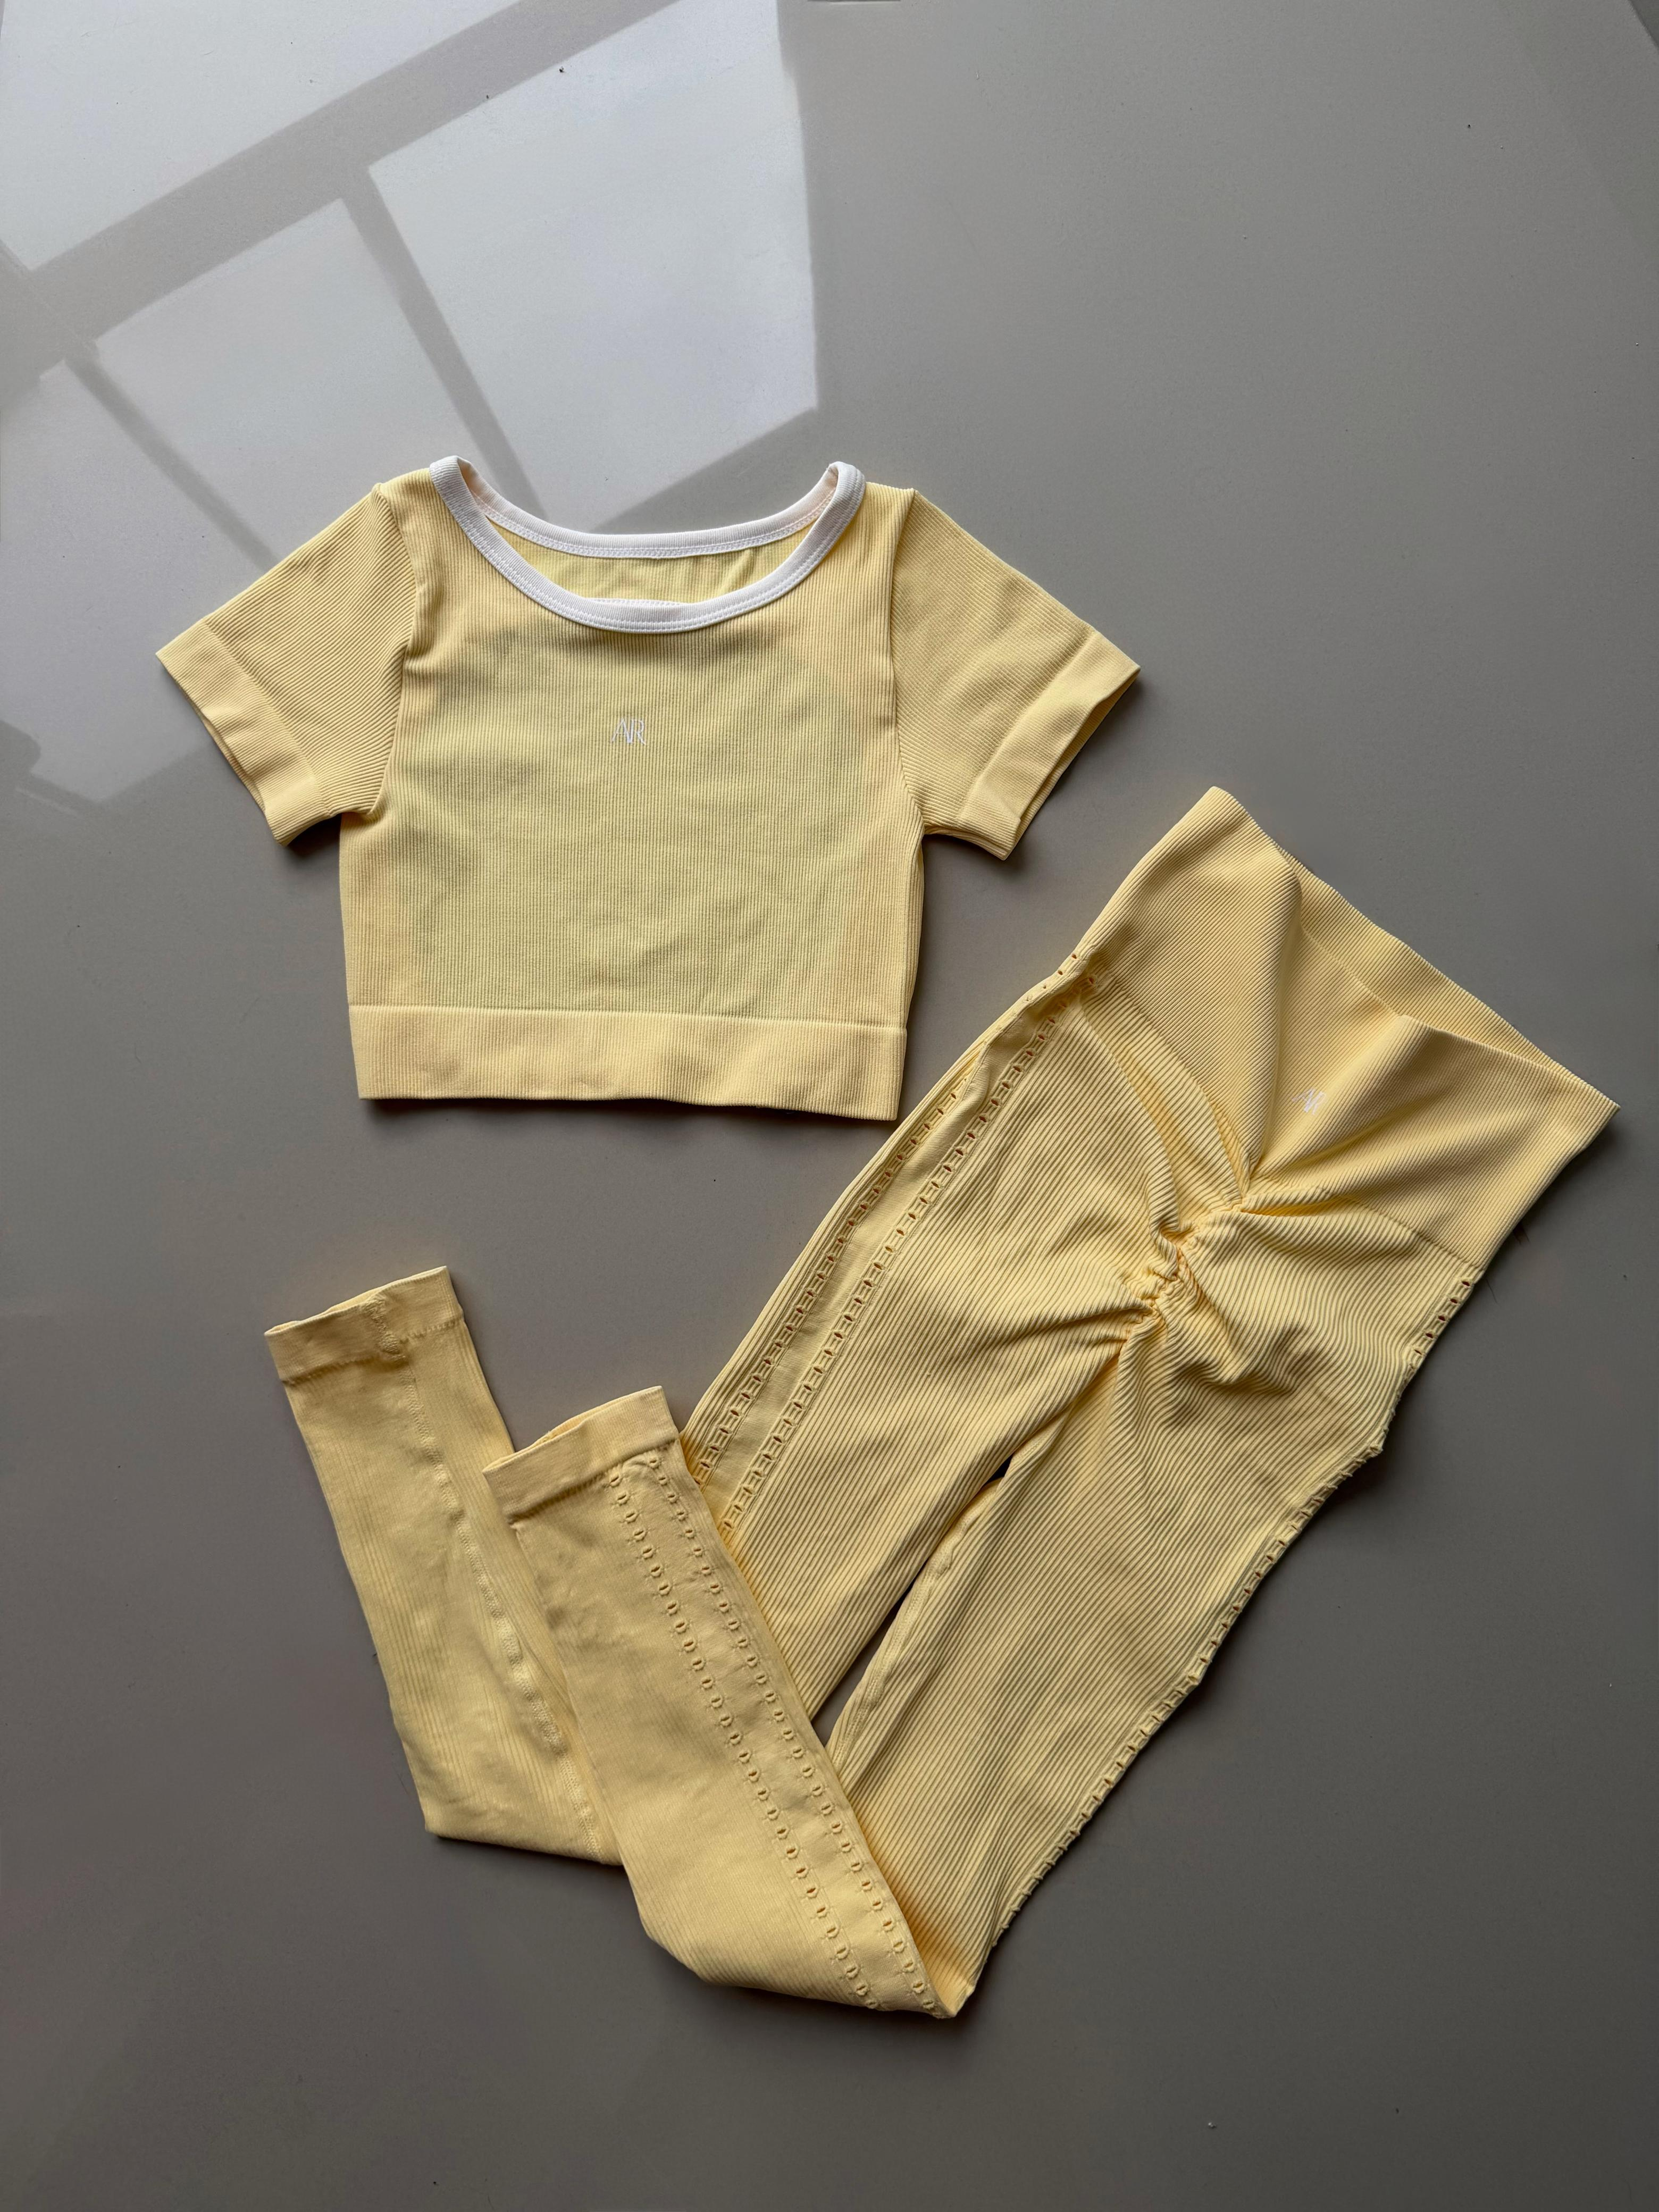
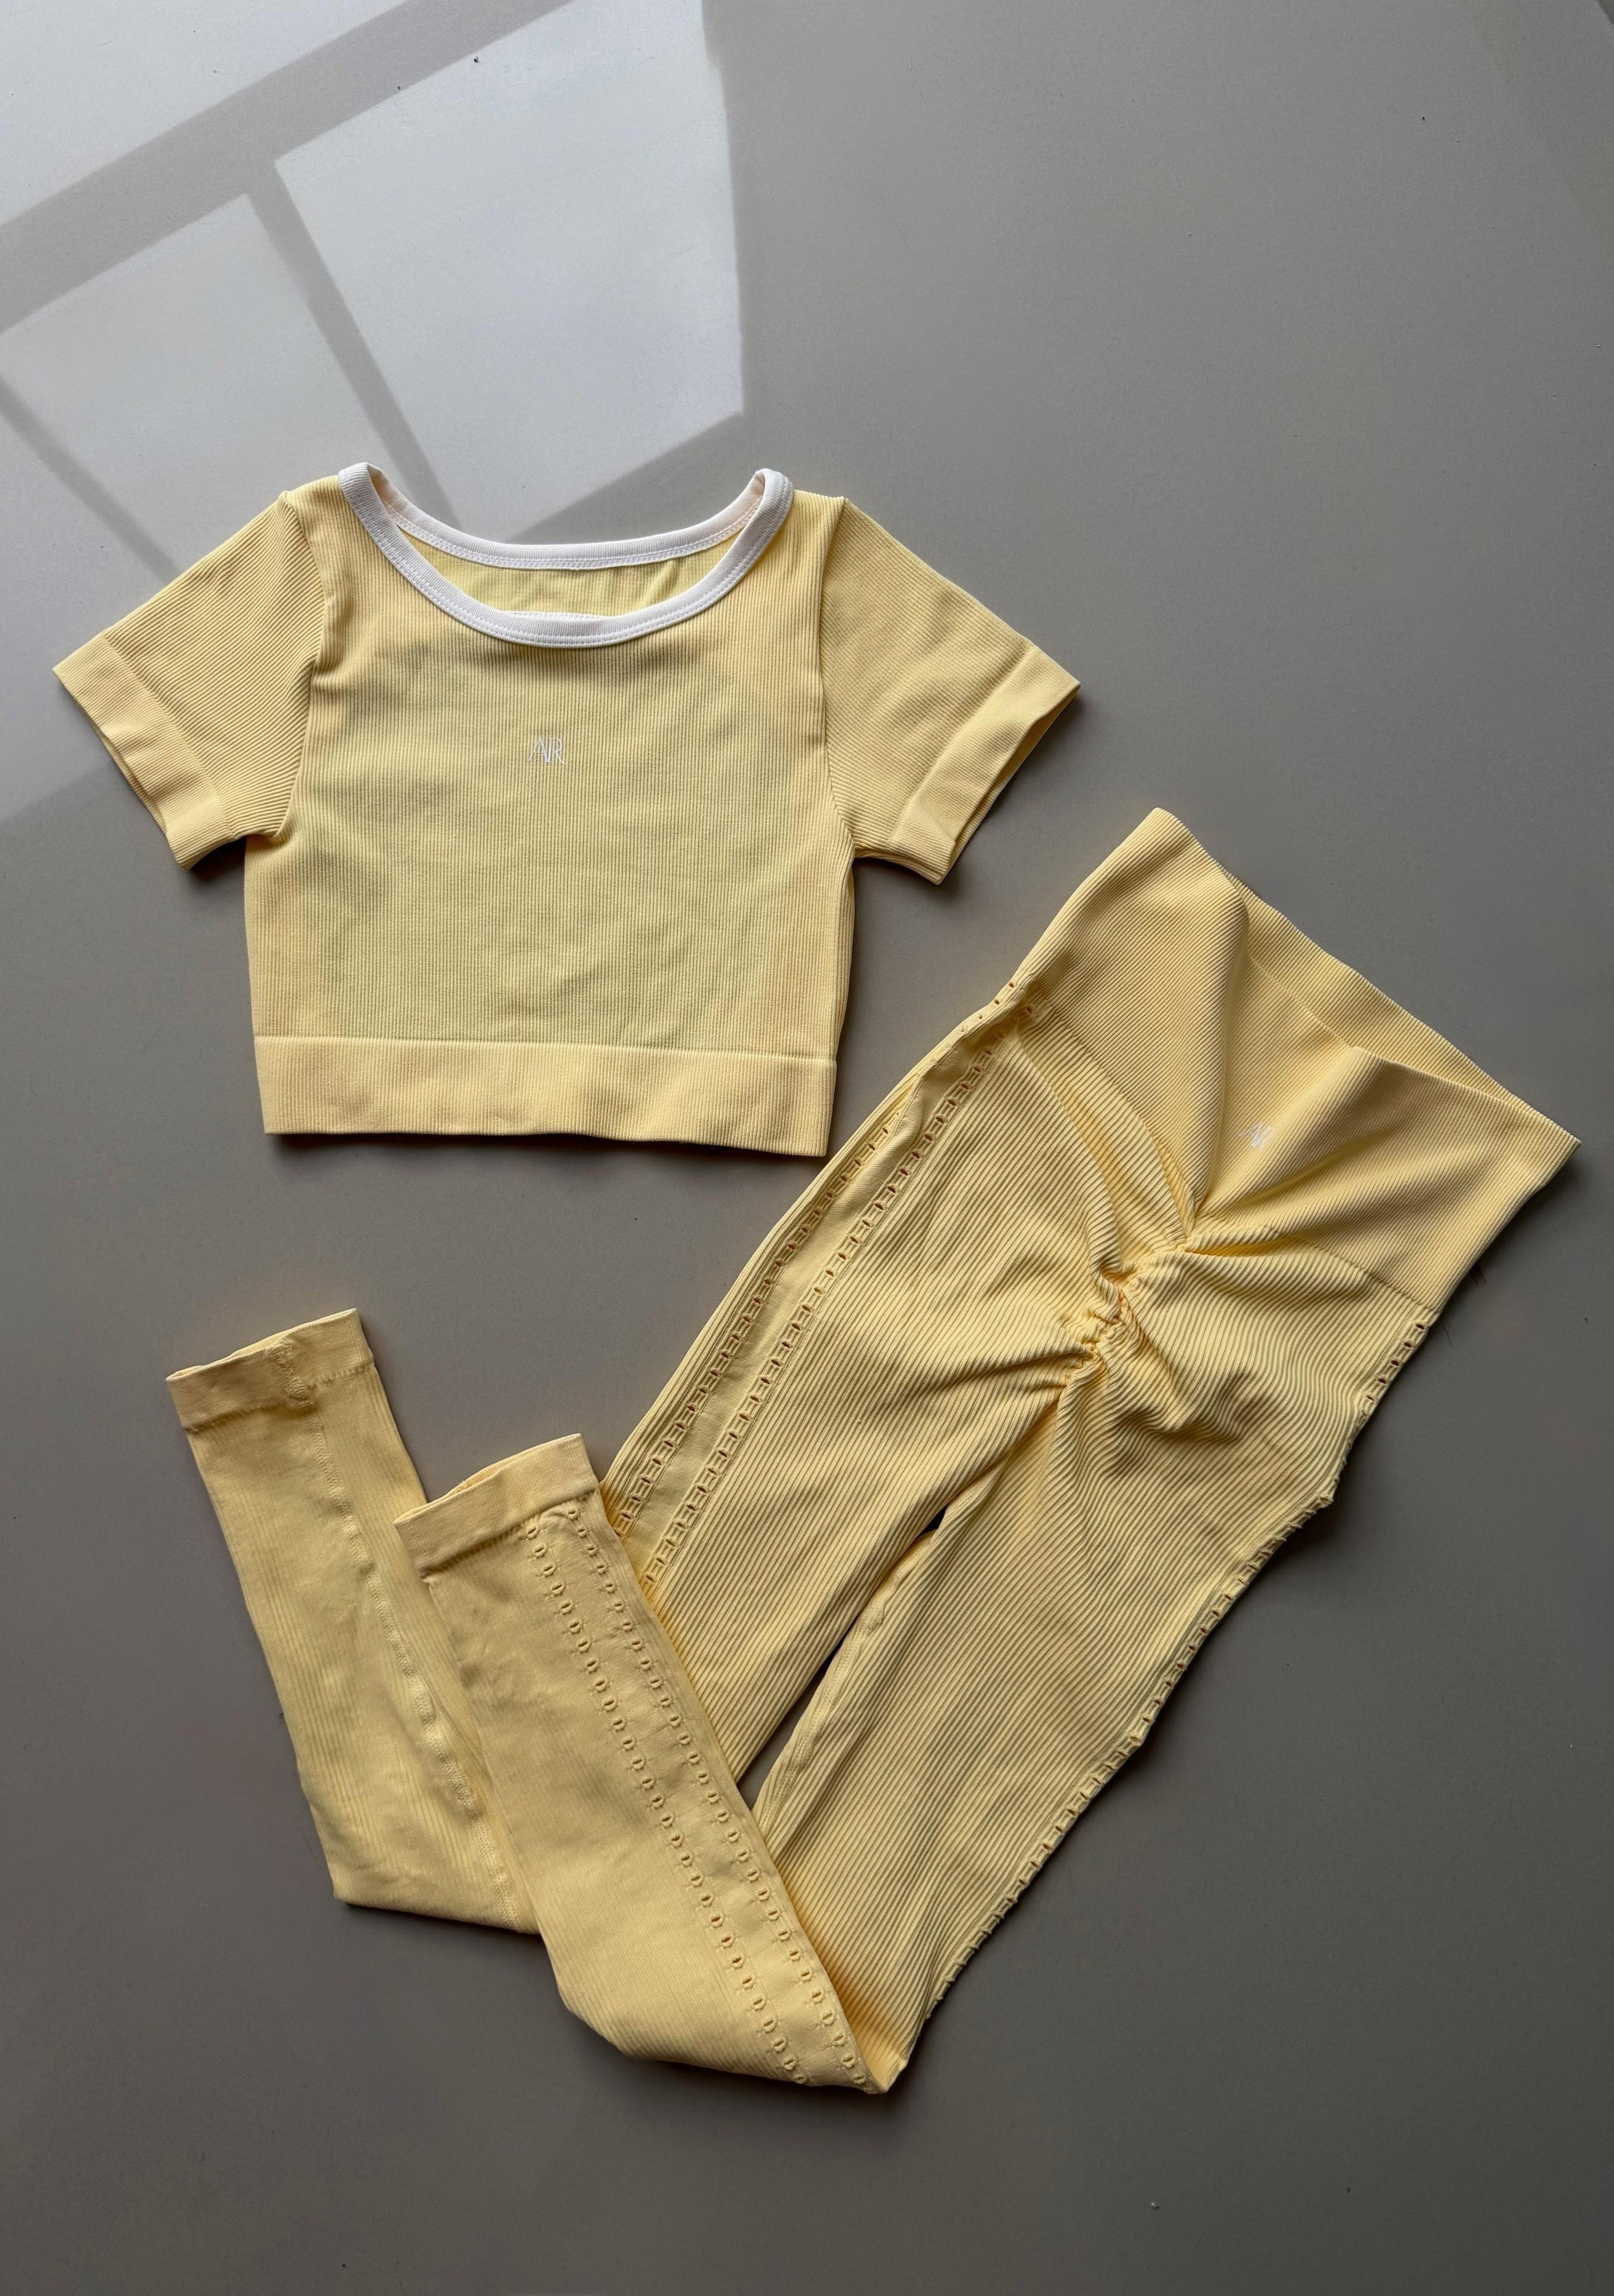
añadimosd set amarillo

Changed region(s): [[0.0, 0.0, 0.9904, 0.9357], [0.9904, 0.0, 1.0, 0.0312]]

diff --git a/src/Components/Assets/all_product.js b/src/Components/Assets/all_product.js
@@ -659,7 +659,7 @@ let all_product = [
     image2: setromacafe2,
     image3: setromacafe3,
     image4: setromacafe4,
-    new_price: 105000,
+    new_price: 110000,
     old_price: 130000,
     sizes: {
       XS: false,
@@ -697,7 +697,7 @@ let all_product = [
     image2: setromanegro2,
     image3: setromanegro3,
     image4: setromanegro4,
-    new_price: 105000,
+    new_price: 110000,
     old_price: 130000,
     sizes: {
       XS: false,
@@ -716,7 +716,7 @@ let all_product = [
     image2: setromarosado2,
     image3: setromarosado3,
     image4: setromarosado4,
-    new_price: 105000,
+    new_price: 110000,
     old_price: 130000,
     sizes: {
       XS: false,
@@ -811,8 +811,8 @@ let all_product = [
     name: "SET ARUAL - TONO AMARILLO",
     category: "sets",
     description: "Material suave y de alta calidad",
-    image: setamarillos1,
-    image2: setamarillos2,
+    image: setamarillos2,
+    image2: setamarillos1,
     image3: setamarillos3,
     image4: setamarillos4,
     new_price: 135000,